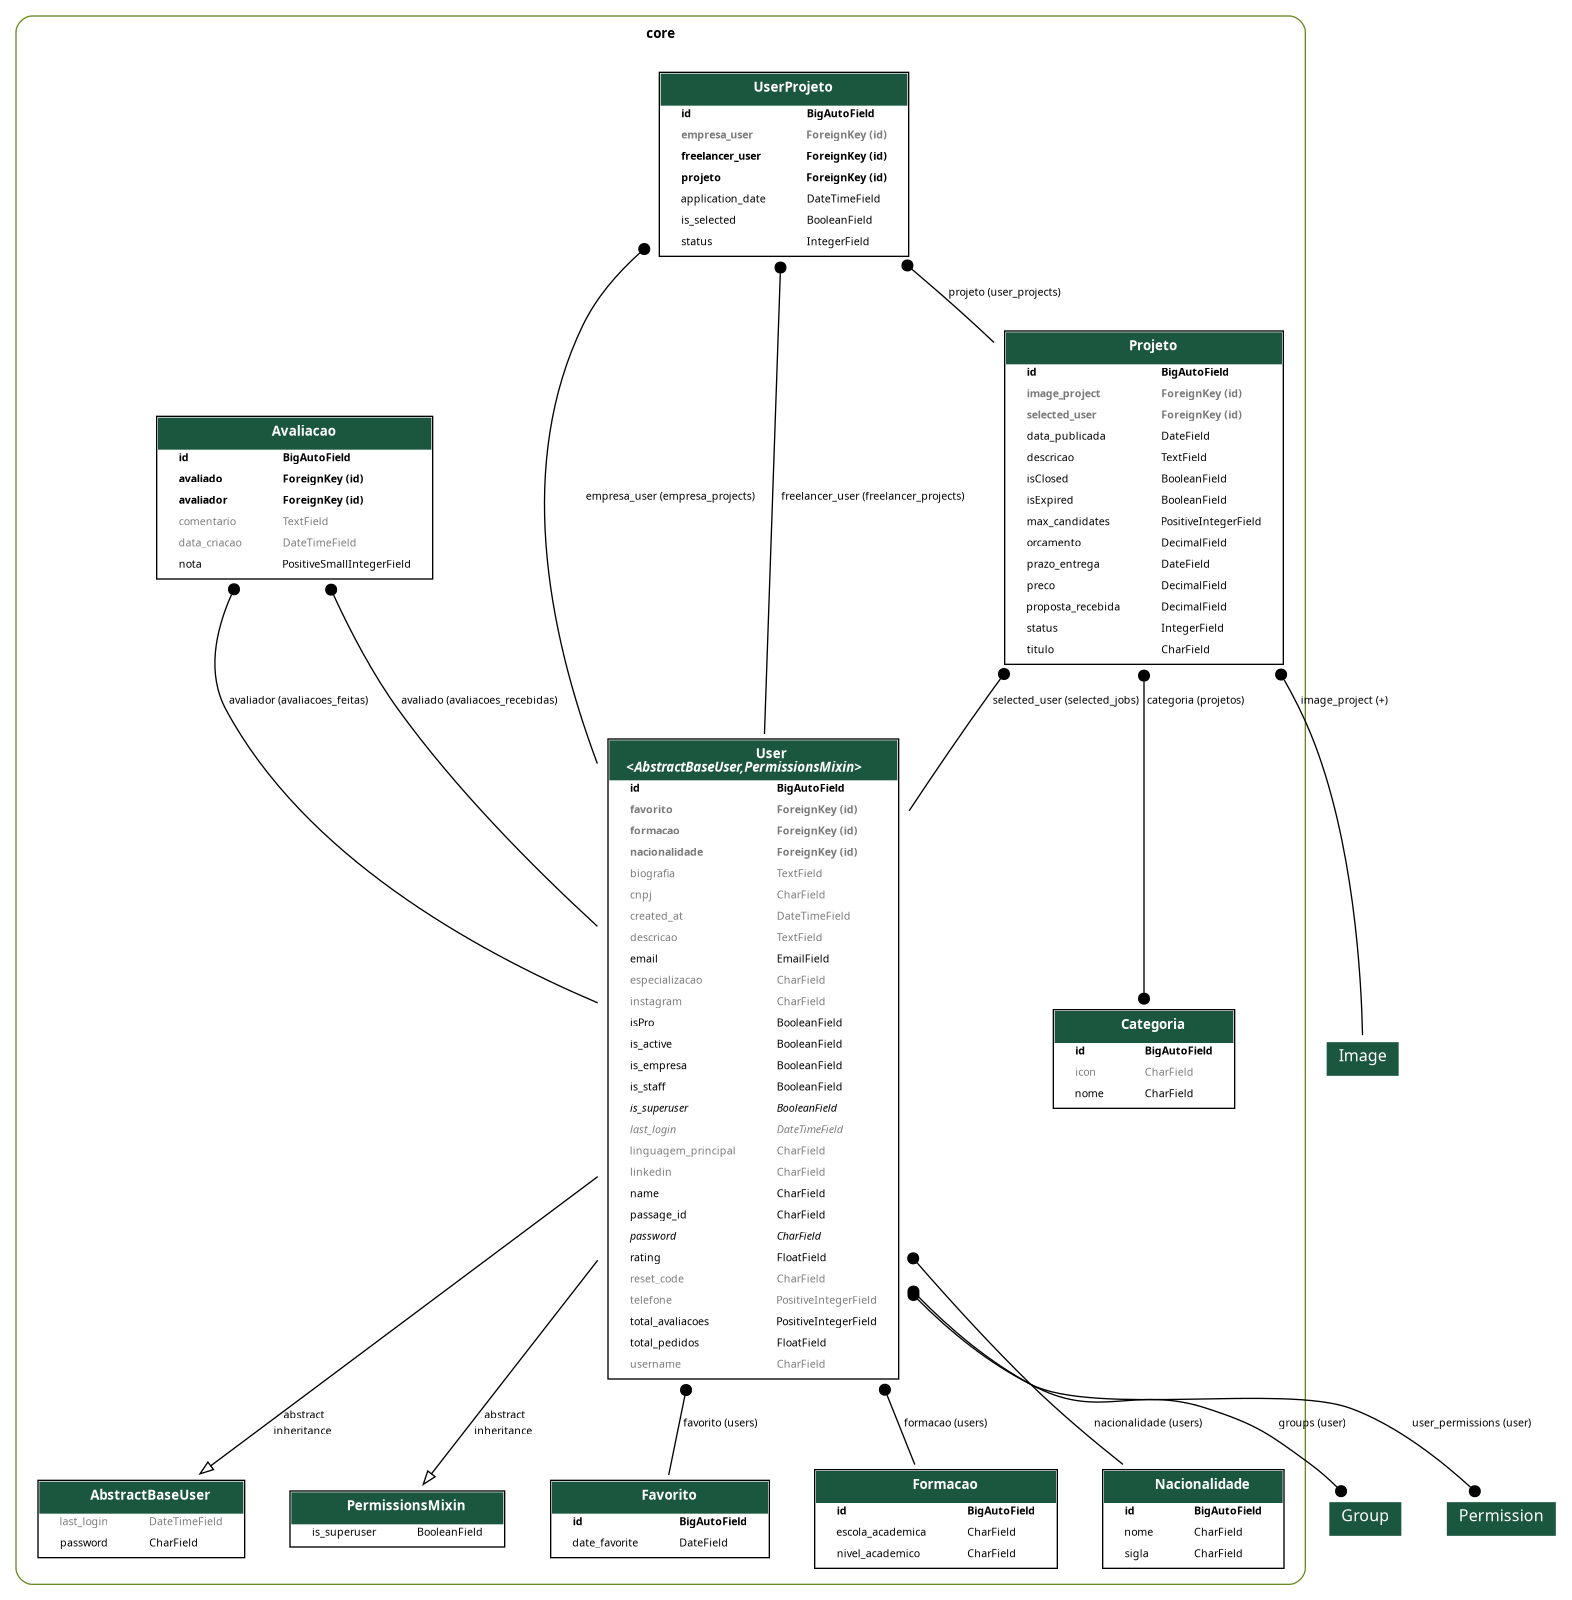
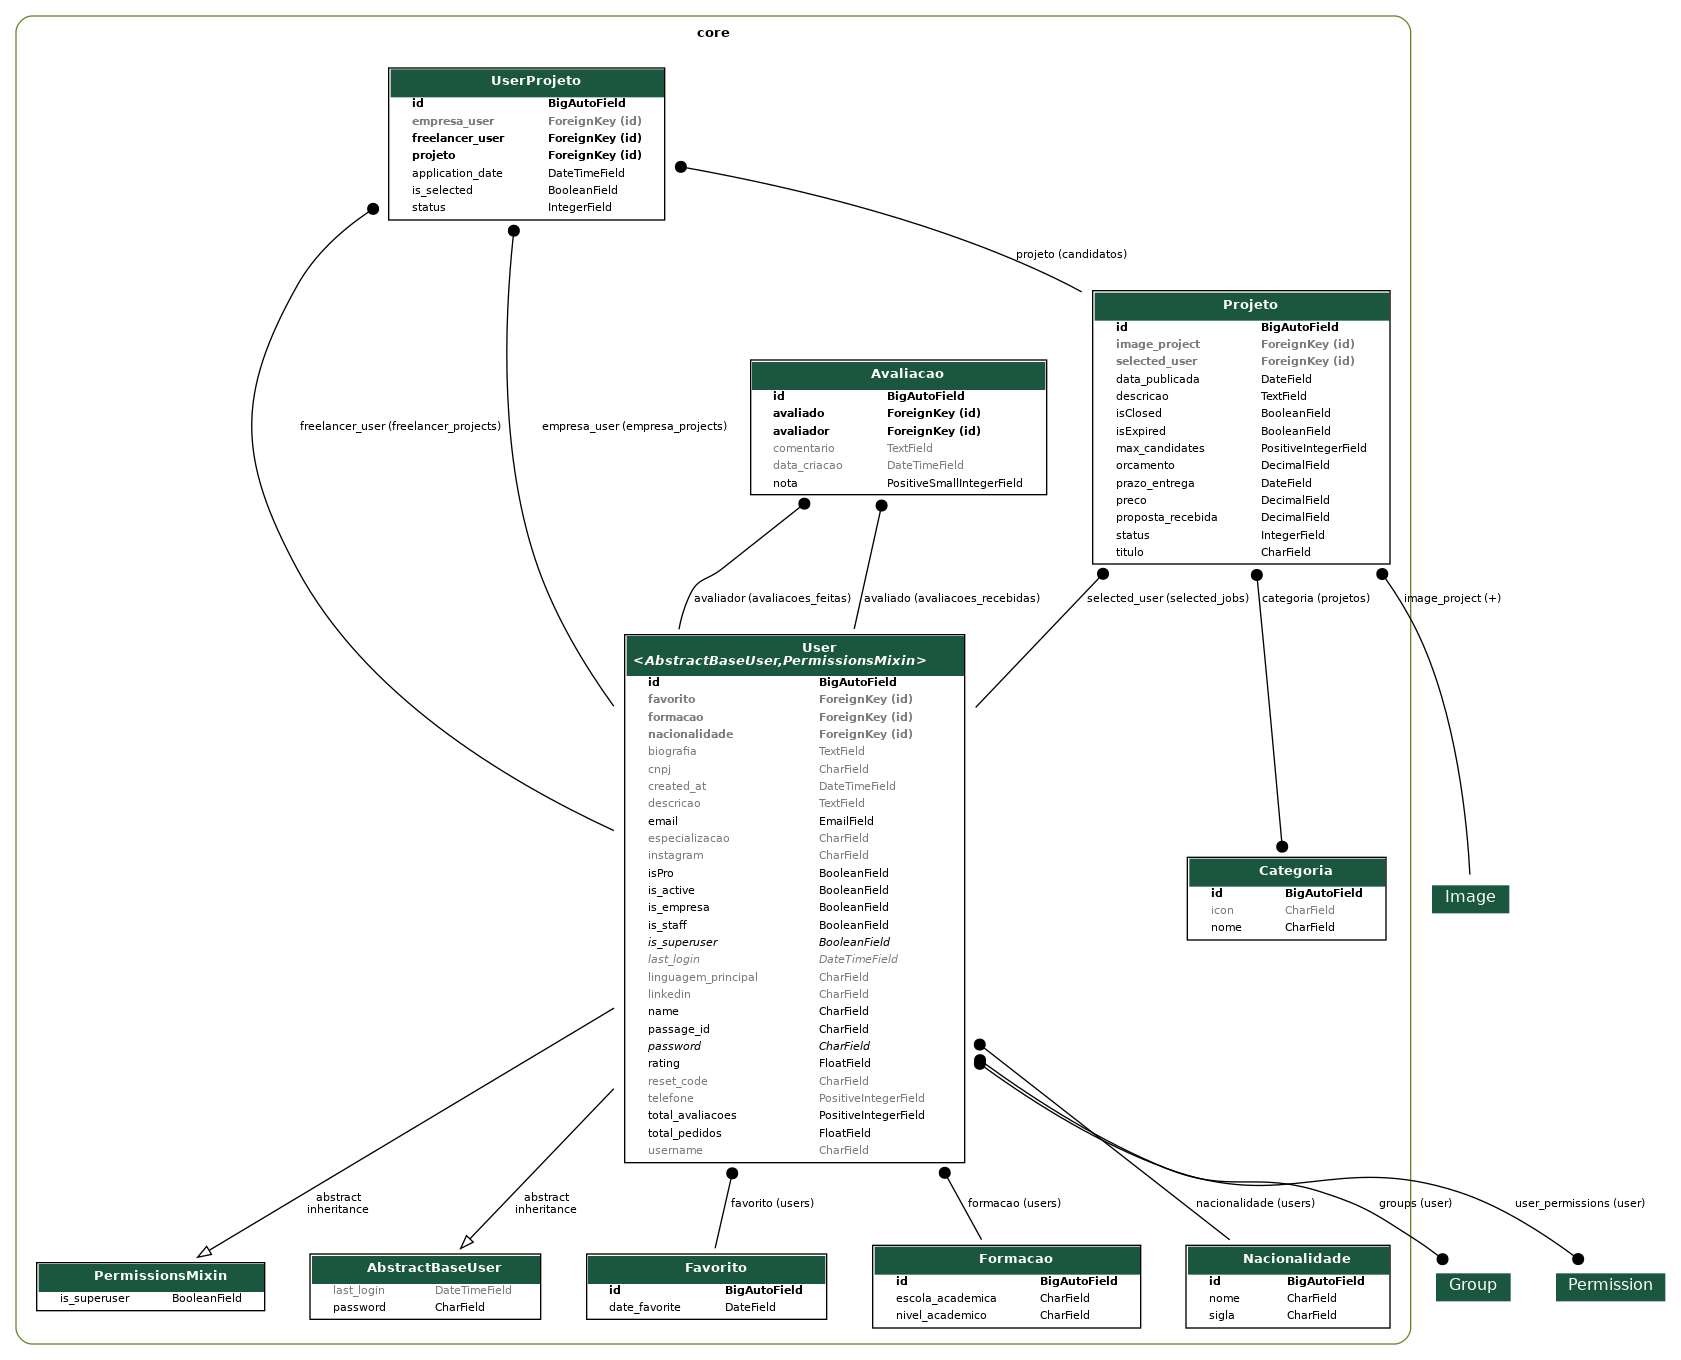
fix: Corrigindo serializer do projeto

diff --git a/core/serializers/projeto.py b/core/serializers/projeto.py
@@ -21,24 +21,17 @@ class ProjetoSerializer(ModelSerializer):
     preco = serializers.DecimalField(
         max_digits=10, decimal_places=2, default=0, required=False, allow_null=True
     )
-    candidatos = UserProjetoSerializer(many=True, read_only=True)  # Se você tiver um campo 'candidatos' no modelo
+    candidatos = UserProjetoSerializer(many=True, read_only=True)  
     remaining_spots = serializers.SerializerMethodField()
 
     def get_remaining_spots(self, instance):
-        """
-        Calcula o número de vagas restantes ou exibe mensagens caso a vaga esteja
-        fechada ou já tenha sido selecionada.
-        """
         if instance.isClosed:
             return "Vagas acabaram"
         
-        # Usar uma consulta eficiente para contar candidatos
-        candidatos_count = instance.candidatos.filter(is_selected=True).count()
-        
-        if candidatos_count >= instance.max_candidates:
+        if instance.candidatos.filter(is_selected=True).exists():
             return "Vaga já foi selecionada"
         
-        return max(0, instance.max_candidates - candidatos_count)
+        return max(0, instance.max_candidates - instance.candidatos.count())
 
     def to_representation(self, instance):
         """

diff --git a/core/migrations/0005_alter_userprojeto_freelancer_user_and_more.py b/core/migrations/0005_alter_userprojeto_freelancer_user_and_more.py
@@ -1,0 +1,31 @@
+# Generated by Django 5.0.6 on 2024-12-13 17:45
+
+import django.db.models.deletion
+from django.conf import settings
+from django.db import migrations, models
+
+
+class Migration(migrations.Migration):
+
+    dependencies = [
+        ("core", "0004_alter_userprojeto_freelancer_user"),
+    ]
+
+    operations = [
+        migrations.AlterField(
+            model_name="userprojeto",
+            name="freelancer_user",
+            field=models.ForeignKey(
+                on_delete=django.db.models.deletion.PROTECT,
+                related_name="freelancer_projects",
+                to=settings.AUTH_USER_MODEL,
+            ),
+        ),
+        migrations.AlterField(
+            model_name="userprojeto",
+            name="projeto",
+            field=models.ForeignKey(
+                on_delete=django.db.models.deletion.PROTECT, related_name="candidatos", to="core.projeto"
+            ),
+        ),
+    ]

diff --git a/core/migrations/0004_alter_userprojeto_freelancer_user.py b/core/migrations/0004_alter_userprojeto_freelancer_user.py
@@ -1,0 +1,22 @@
+# Generated by Django 5.0.6 on 2024-12-13 17:44
+
+import django.db.models.deletion
+from django.conf import settings
+from django.db import migrations, models
+
+
+class Migration(migrations.Migration):
+
+    dependencies = [
+        ("core", "0003_alter_user_telefone"),
+    ]
+
+    operations = [
+        migrations.AlterField(
+            model_name="userprojeto",
+            name="freelancer_user",
+            field=models.ForeignKey(
+                on_delete=django.db.models.deletion.PROTECT, related_name="candidatos", to=settings.AUTH_USER_MODEL
+            ),
+        ),
+    ]

diff --git a/core/models/projetoUser.py b/core/models/projetoUser.py
@@ -14,7 +14,7 @@ class UserProjeto(models.Model):
     application_date = models.DateTimeField(default=timezone.now)
     is_selected = models.BooleanField(default=False)
     status = models.IntegerField(choices=StatusJob.choices, default=StatusJob.PENDENTE)
-    projeto = models.ForeignKey(Projeto, related_name="user_projects", on_delete=models.PROTECT)
+    projeto = models.ForeignKey(Projeto, related_name="candidatos", on_delete=models.PROTECT)
 
     class Meta:
         verbose_name = "User Projeto"
